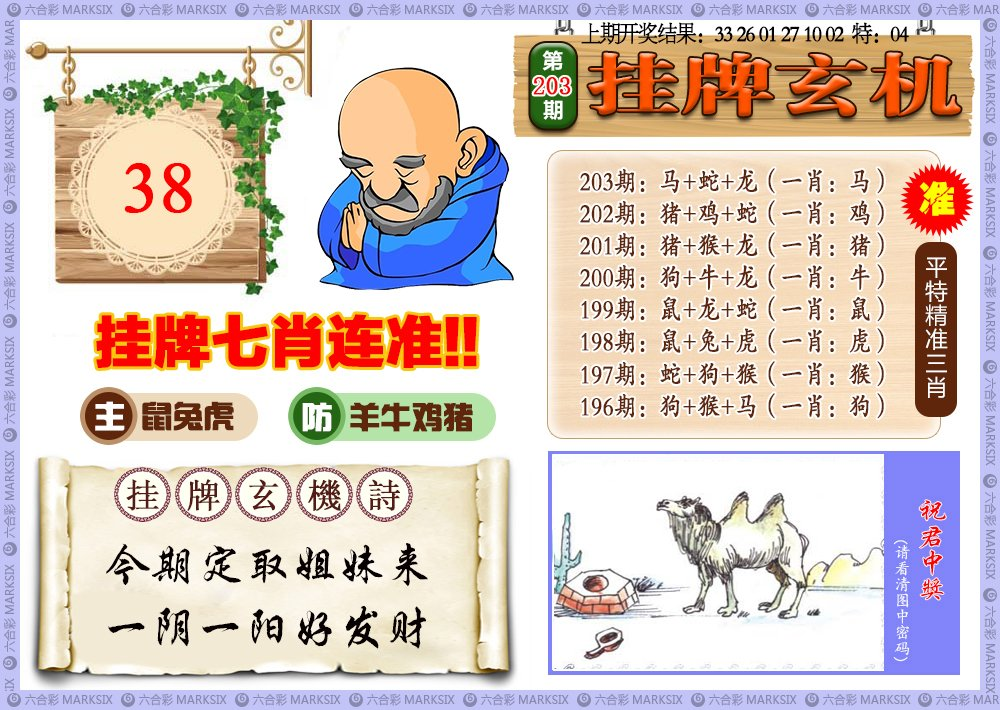
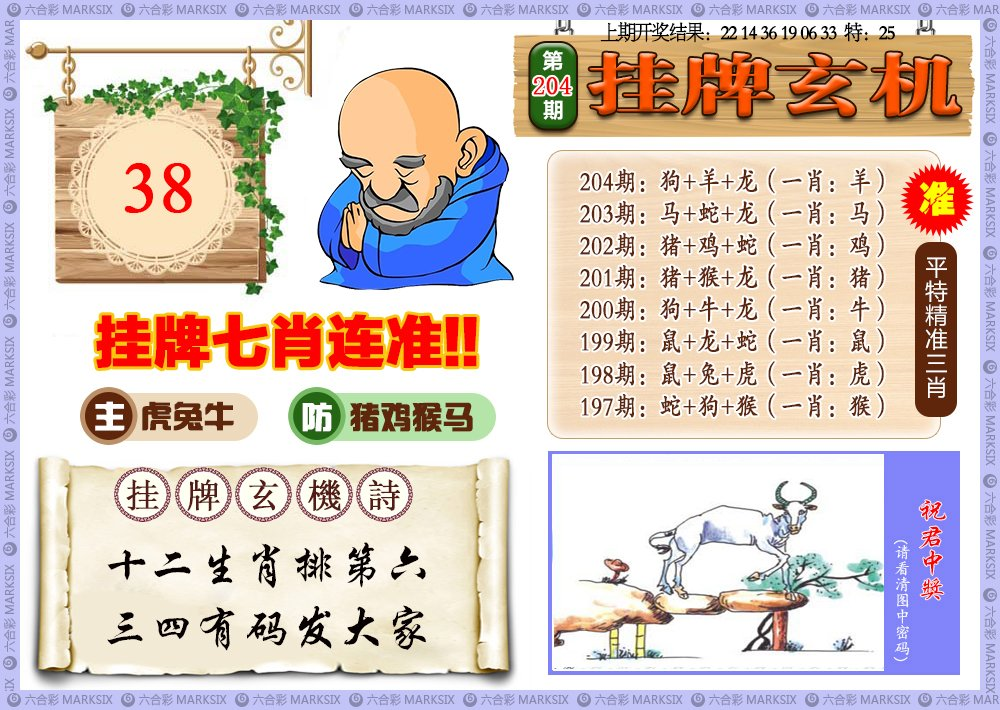
Update:  2023.07.23 00:21:05

diff --git a/Script/Src/xjw/一点通玄机.js b/Script/Src/xjw/一点通玄机.js
@@ -37,19 +37,32 @@ document.writeln("<script language=\'JavaScript\' type=\'text/javascript\' src=\
 
 
 
-
+document.writeln("						<tr>");
+document.writeln("		<td class=\'center f11 black l150\' align=\'center\'>");
+document.writeln("	");
+document.writeln("		<p align=\'left\'>");
+document.writeln("	");
+document.writeln("		<span><font size=\'4\'><strong>204期:</strong><font color=\'#008000\'><strong>【澳门玄机一点通】</strong></font><font color=\'#FF0000\'><strong>开？00</strong></font><font color=\'#008000\'><strong><br>");
+document.writeln("		</strong>");
+document.writeln("		</font><font color=\'#FF00FF\'><strong>牛头马嘴画中肖，凶神恶煞贴家门。</strong></font><strong><br>");
+document.writeln("		</strong><strong><font color=\'#6600CC\'>");
+document.writeln("		解:牛头马嘴画中肖，牛马，凶神恶煞贴家门，家门，家畜：牛羊猪狗鸡马。<br>");
+document.writeln("		</font><span class=\'style1\'>综合生肖：</span><span class=\'style2\'>牛羊猪狗鸡马。</span></strong></font></td></tr>");
+document.writeln("");
+document.writeln("");
+document.writeln("");
 
 document.writeln("						<tr>");
 document.writeln("		<td class=\'center f11 black l150\' align=\'center\'>");
 document.writeln("	");
 document.writeln("		<p align=\'left\'>");
 document.writeln("	");
-document.writeln("		<span><font size=\'4\'><strong>203期:</strong><font color=\'#008000\'><strong>【澳门玄机一点通】</strong></font><font color=\'#FF0000\'><strong>开？00</strong></font><font color=\'#008000\'><strong><br>");
+document.writeln("		<span><font size=\'4\'><strong>203期:</strong><font color=\'#008000\'><strong>【澳门玄机一点通】</strong></font><font color=\'#FF0000\'><strong>开兔25</strong></font><font color=\'#008000\'><strong><br>");
 document.writeln("		</strong>");
 document.writeln("		</font><font color=\'#FF00FF\'><strong>清淮晓色鸭头春,笑指西坡瓜豆熟</strong></font><strong><br>");
 document.writeln("		</strong><strong><font color=\'#6600CC\'>");
 document.writeln("		解:妇女梳的环形的发髻，解美女肖蛇羊兔鸡,风肖虎兔龙。<br>");
-document.writeln("		</font><span class=\'style1\'>综合生肖：</span><span class=\'style2\'>蛇羊兔鸡虎龙</span></strong></font></td></tr>");
+document.writeln("		</font><span class=\'style1\'>综合生肖：</span><span class=\'style2\'>蛇羊<span style=\'background-color: #FFFF00\'>兔</span>鸡虎龙</span></strong></font></td></tr>");
  
 document.writeln("");
 document.writeln("						<tr>");

diff --git a/Script/Src/xjw/四肖中特.js b/Script/Src/xjw/四肖中特.js
@@ -28,14 +28,30 @@ document.writeln("");
 
 
 
+
+
+
+document.writeln("");
+document.writeln("");
+document.writeln("	<tr>");
+document.writeln("		<td class=\'center f11 black l150\' align=\'center\'>");
+document.writeln("	");
+document.writeln("		<span><font size=\'4\'>204期:<font color=\'#008000\'>【四肖中特诗】</font><font color=\'#FF0000\'>开？00</font><font color=\'#008000\'><br>");
+document.writeln("		</font><font color=\'#6600CC\'>【一来二去有祥意，龙鼠兔猴是特码】<br></font></font>");
+document.writeln("		<font color=\'#0000FF\' size=\'4\'>解：</font></span><font size=\'4\' color=\'#0000FF\'>龙鼠兔猴</font></tr>");
+document.writeln("");
+document.writeln("");
+document.writeln("");
+
+
 document.writeln("				<tr>");
 document.writeln("		<td class=\'center f11 black l150\' align=\'center\'>");
 document.writeln("	");
 document.writeln("		<p>");
 document.writeln("	");
-document.writeln("		<span><font size=\'4\'>203期:<font color=\'#008000\'>【四肖中特诗】</font><font color=\'#FF0000\'>开猪26</font><font color=\'#008000\'><br>");
+document.writeln("		<span><font size=\'4\'>203期:<font color=\'#008000\'>【四肖中特诗】</font><font color=\'#FF0000\'>开兔25</font><font color=\'#008000\'><br>");
 document.writeln("		</font><font color=\'#6600CC\'>【湖光秋月三四和，狗虎猴兔是特码】<br></font></font>");
-document.writeln("		<font color=\'#0000FF\' size=\'4\'>解：狗虎猴兔</span></tr>	");
+document.writeln("		<font color=\'#0000FF\' size=\'4\'>解：狗虎猴<span style=\'background-color: #FFFF00\'>兔</span></span></tr>	");
 document.writeln("");
 
 

diff --git a/Script/Src/xjw/三肖三码.js b/Script/Src/xjw/三肖三码.js
@@ -35,6 +35,16 @@ document.writeln("		");
 
 
 
+document.writeln("");
+document.writeln("				<tr>");
+document.writeln("		<td class=\'center f11 black l150\'>");
+document.writeln("	");
+document.writeln("		<p align=\'center\'>");
+document.writeln("	");
+document.writeln("		<span style=\'vertical-align: middle\'><font size=\'4\'>204期:<font color=\'#FF00FF\'>《猪马羊》</font><font color=\'#008000\'>（05 46 21）</font><font color=\'#0000FF\'>开？00中</font></font></span></td></tr>");
+document.writeln("	");
+document.writeln("");
+
 
 document.writeln("");
 document.writeln("				<tr>");
@@ -42,7 +52,7 @@ document.writeln("		<td class=\'center f11 black l150\'>");
 document.writeln("	");
 document.writeln("		<p align=\'center\'>");
 document.writeln("	");
-document.writeln("		<span style=\'vertical-align: middle\'><font size=\'4\'>203期:<font color=\'#FF00FF\'>《虎兔鸡》</font><font color=\'#008000\'>（26 49 31）</font><font color=\'#0000FF\'>开？00中</font></font></span></td></tr>");
+document.writeln("		<span style=\'vertical-align: middle\'><font size=\'4\'>203期:<font color=\'#FF00FF\'>《虎<span style=\'background-color: #FFFF00\'>兔</span>鸡》</font><font color=\'#008000\'>（26 49 31）</font><font color=\'#0000FF\'>开兔25中</font></font></span></td></tr>");
 document.writeln("	");
  
 document.writeln("		");

diff --git a/Script/Src/xjw/平尾.js b/Script/Src/xjw/平尾.js
@@ -13,13 +13,25 @@ document.writeln("<script language=\'JavaScript\' type=\'text/javascript\' src=\
 
 
 
+
+document.writeln("			<tr>");
+document.writeln("		<td class=\'center f11 black l150\' align=\'center\'>");
+document.writeln("		<b>");
+document.writeln("		<font size=\'4\'>");
+document.writeln("		<span>204期:<font color=\'#008000\'>四字平尾</font>【<font color=\'#0000FF\'>四大皆空</font>】</span><font color=\'#FF0000\'>开？00</font></font></b></td>");
+document.writeln("		</tr>	");
+document.writeln("		");
+document.writeln("");
+document.writeln("");
+
+
 document.writeln("");
 document.writeln("		");
 document.writeln("			<tr>");
 document.writeln("		<td class=\'center f11 black l150\' align=\'center\'>");
 document.writeln("		<b>");
 document.writeln("		<font size=\'4\'>");
-document.writeln("		<span>203期:<font color=\'#008000\'>四字平尾</font>【<font color=\'#0000FF\'>三人成虎</font>】</span><font color=\'#FF0000\'>开？00</font></font></b></td>");
+document.writeln("		<span>203期:<font color=\'#008000\'>四字平尾</font>【<font color=\'#0000FF\'>三人成虎</font>】</span><font color=\'#FF0000\'>开羊33</font></font></b></td>");
 document.writeln("		</tr>	");
 document.writeln("		");
 document.writeln("		");

diff --git a/Script/Src/xjw/单双中特.js b/Script/Src/xjw/单双中特.js
@@ -14,8 +14,6 @@ document.writeln("");
 
 
 
-
-
 document.writeln("<!--开始-->	");
 document.writeln("	");
 document.writeln("	<tr>");
@@ -27,10 +25,11 @@ document.writeln("		<span>");
 document.writeln("	");
 document.writeln("		<b>");
 document.writeln("	");
-document.writeln("		<font size=\'4\'>203期:<font color=\'#0000FF\'>单双中特</font><font color=\'#FF00FF\'>【</font></font><font color=\'#FF0000\' face=\'禹卫书法行书简体");
-document.writeln("\' style=\'font-size: 14pt\'>双</font><font size=\'4\'><font color=\'#FF00FF\'>】</font><font color=\'#0000FF\'>开猫00</font></font></b></td></tr>");
+document.writeln("		<font size=\'4\'>204期:<font color=\'#0000FF\'>单双中特</font><font color=\'#FF00FF\'>【</font></font><font color=\'#FF0000\' face=\'禹卫书法行书简体");
+document.writeln("\' style=\'font-size: 14pt\'>单</font><font size=\'4\'><font color=\'#FF00FF\'>】</font><font color=\'#0000FF\'>开猫00</font></font></b></td></tr>");
 document.writeln("");
 document.writeln("<!--结束-->");
+
  
 document.writeln("<!--开始-->	");
 document.writeln("	");
